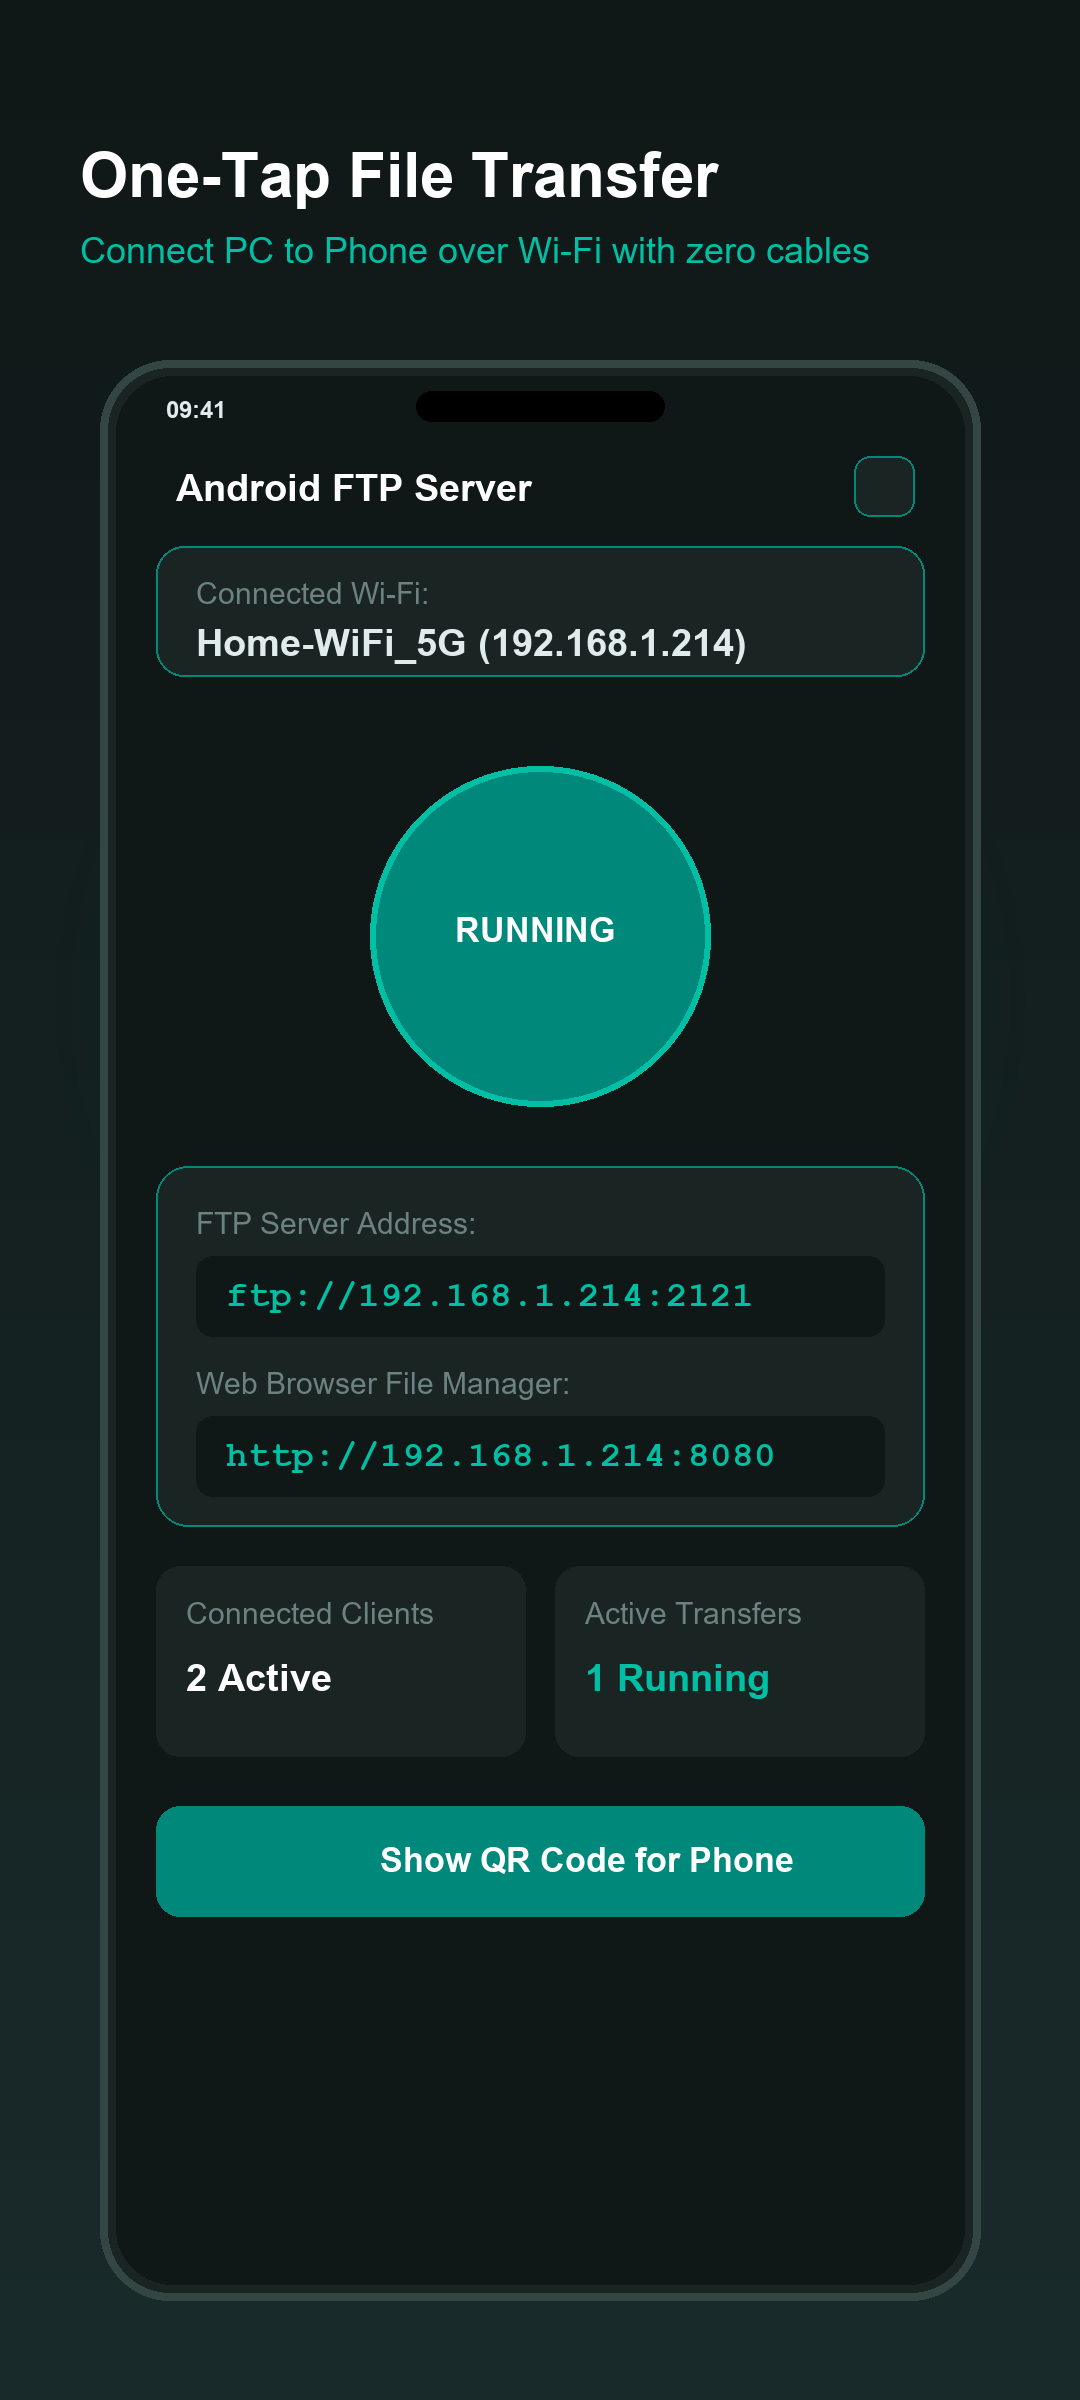
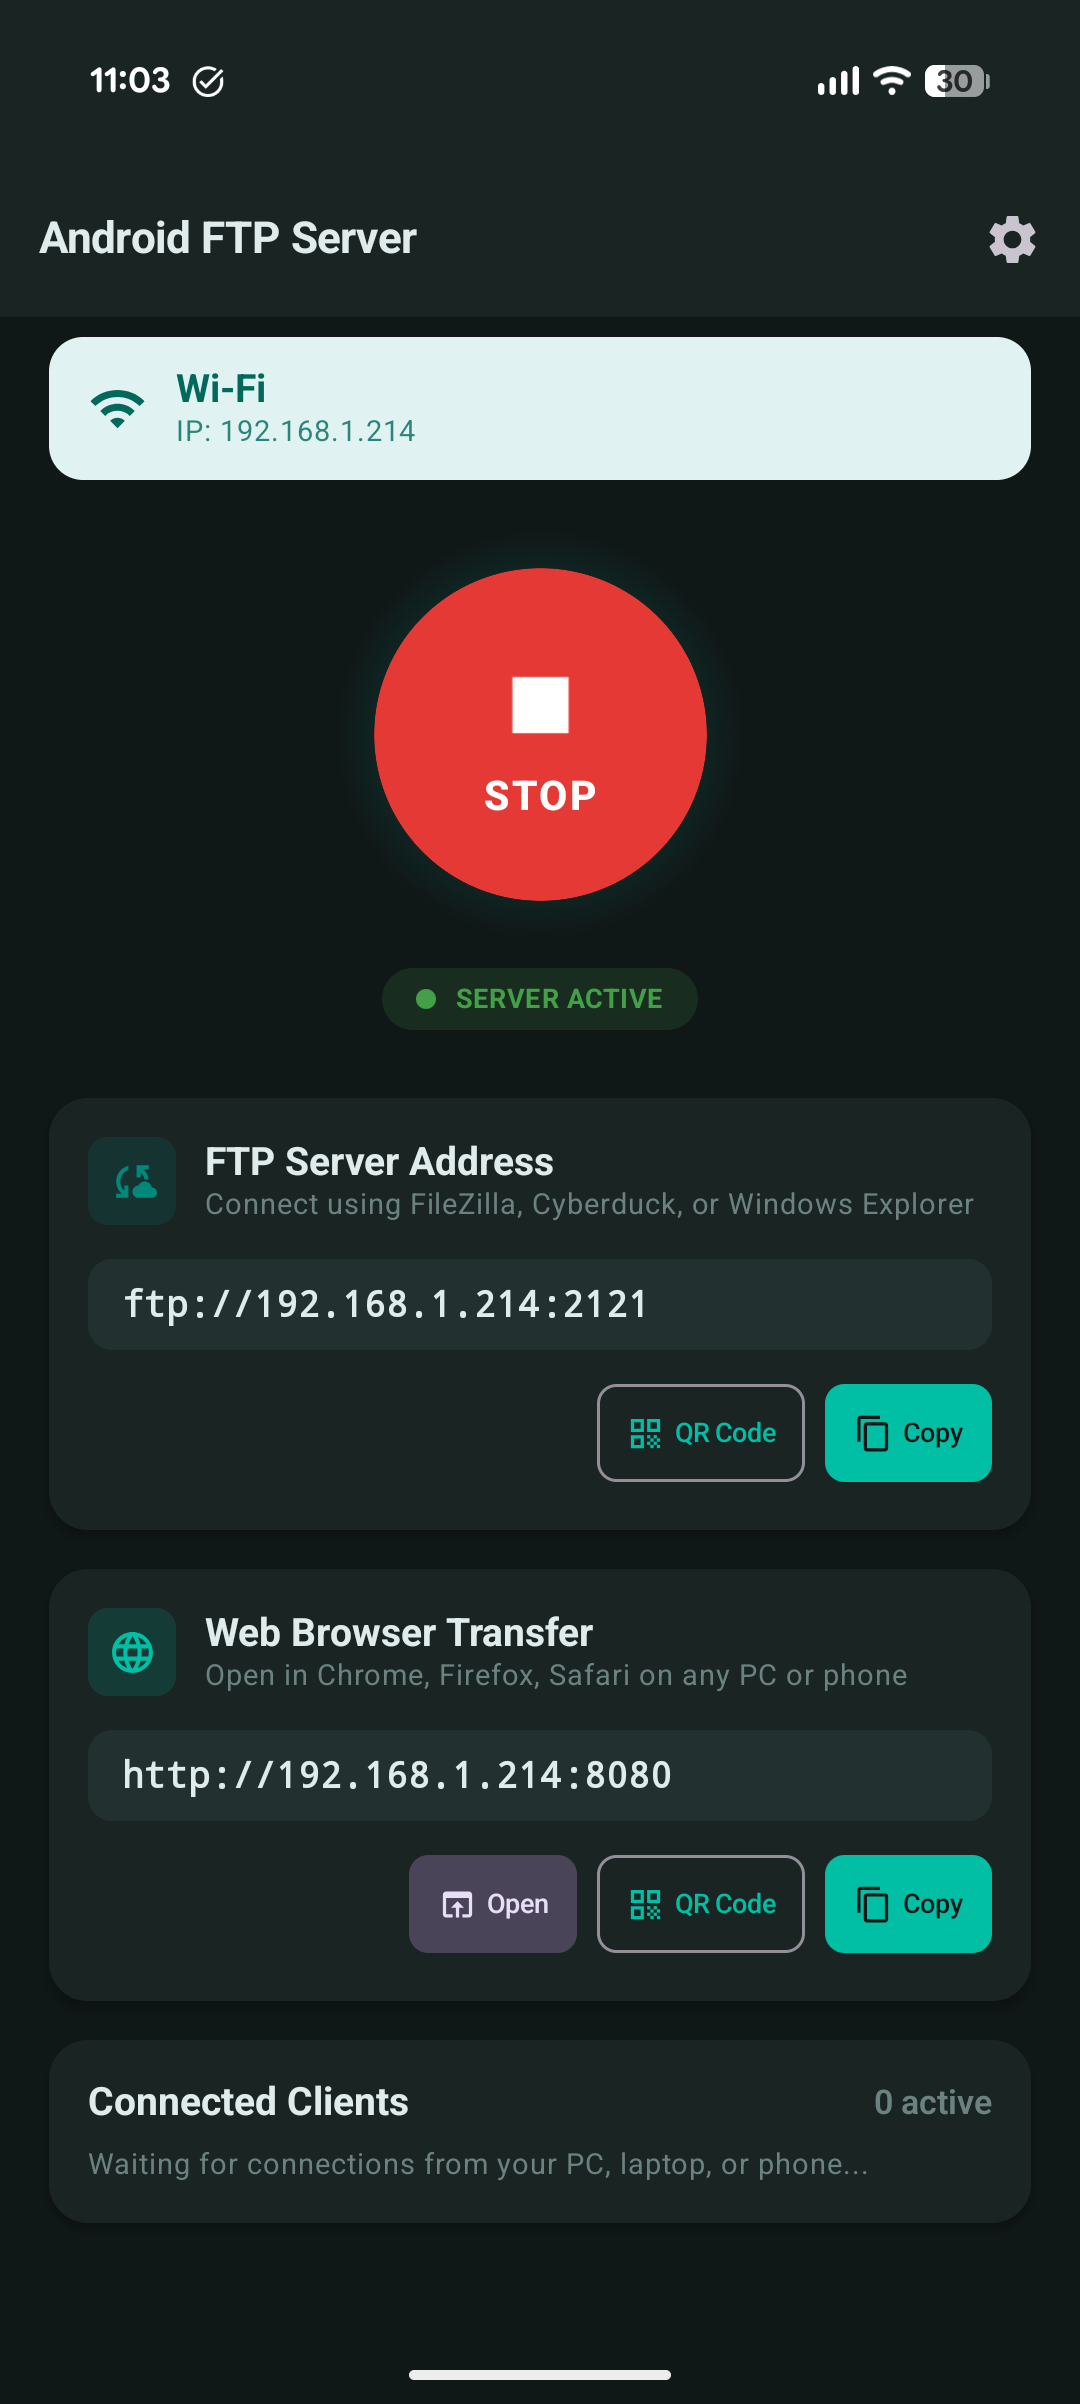
Update Play Store listing assets with real device screenshots

diff --git a/store_assets/PLAY_STORE_LISTING.md b/store_assets/PLAY_STORE_LISTING.md
@@ -78,5 +78,8 @@ Upload to YouTube as **Unlisted** and paste the link in the declaration field.
 - [x] Release App Bundle: `app-release.aab` (15.2 MB)
 - [x] App Icon: `store_assets/play_store_icon_512.png` (512x512 PNG)
 - [x] Feature Graphic: `store_assets/play_store_feature_graphic_1024x500.png` (1024x500 PNG)
-- [x] Screenshots: `store_assets/screenshot_1_home.png` and `screenshot_2_settings.png` (1080x2400)
+- [x] Screenshots:
+  - `store_assets/screenshot_1_home.png` (Home Screen with Server Running)
+  - `store_assets/screenshot_2_settings_network.png` (Automation & Network / Port Settings)
+  - `store_assets/screenshot_3_settings_storage_users.png` (Storage Directory & User Management)
 - [x] Privacy Policy: `store_assets/privacy.html` (or `PRIVACY_POLICY.md`)
